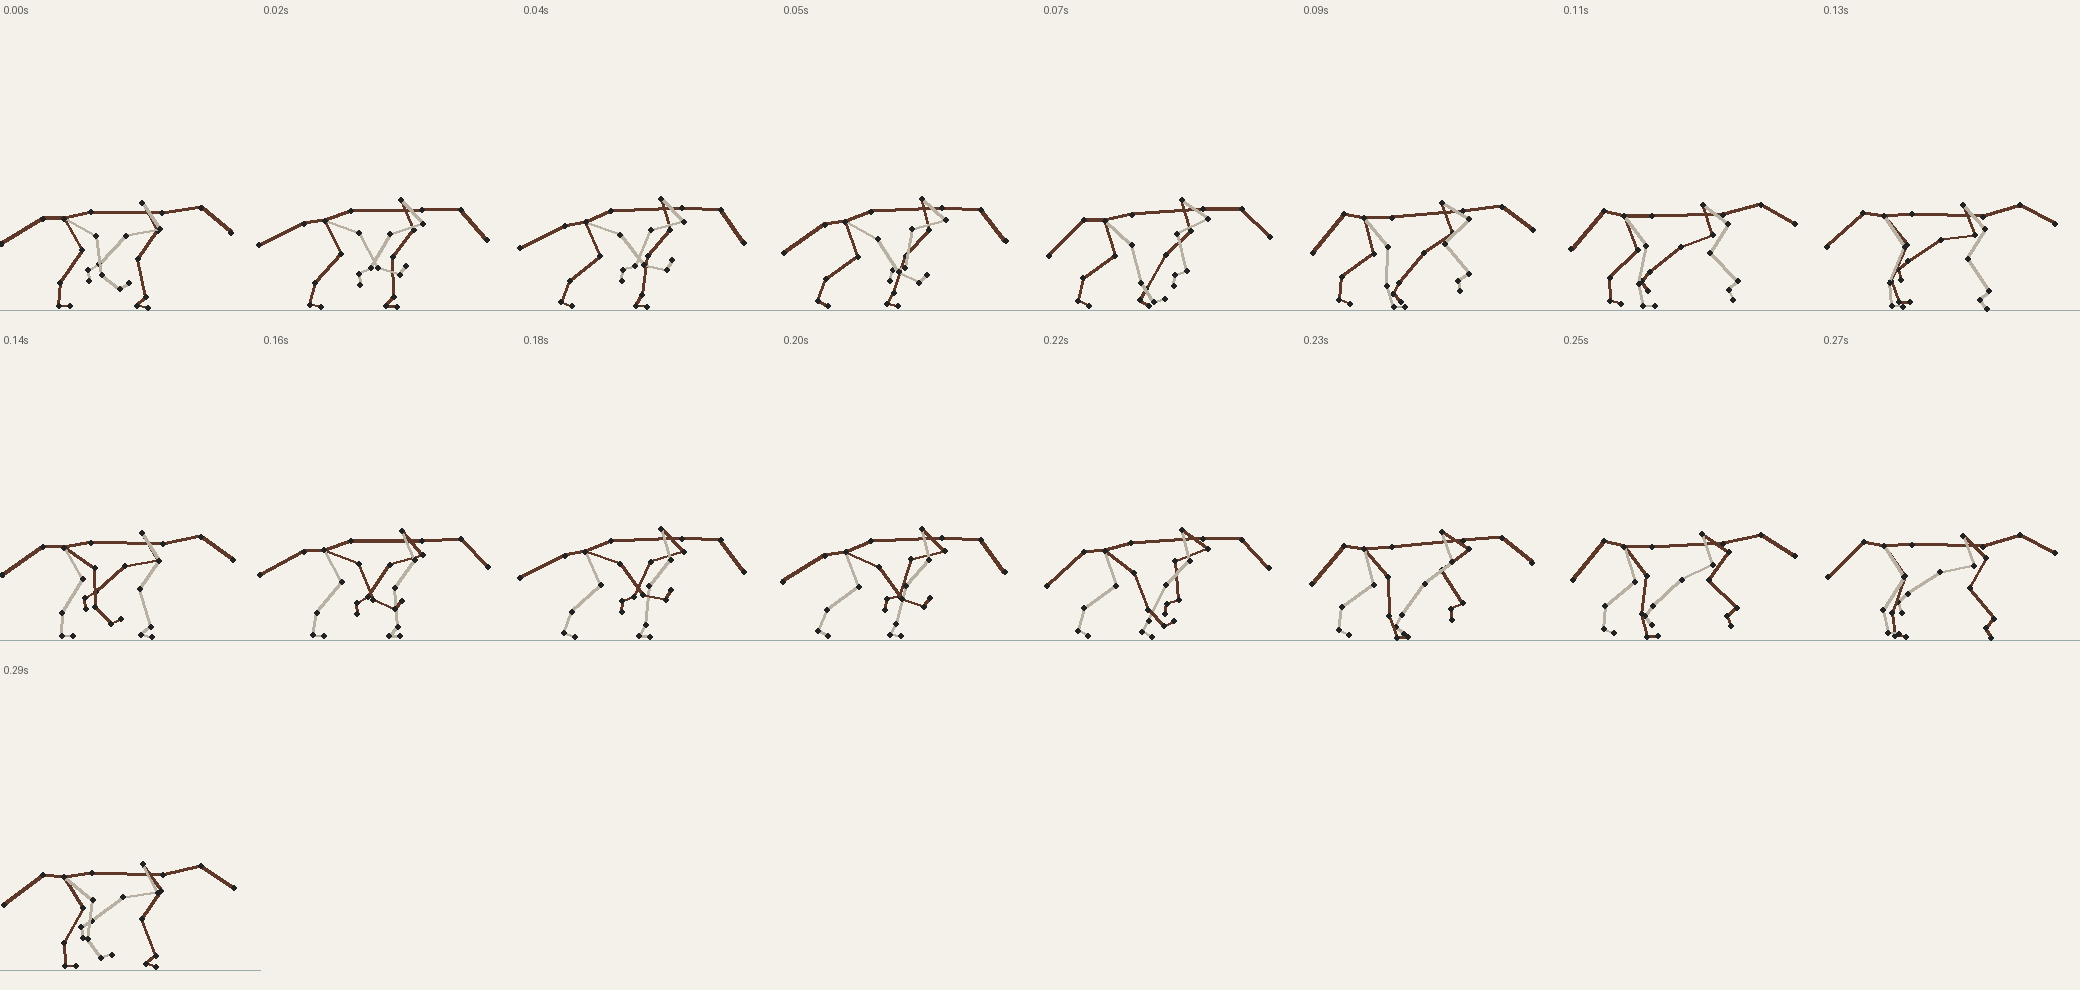
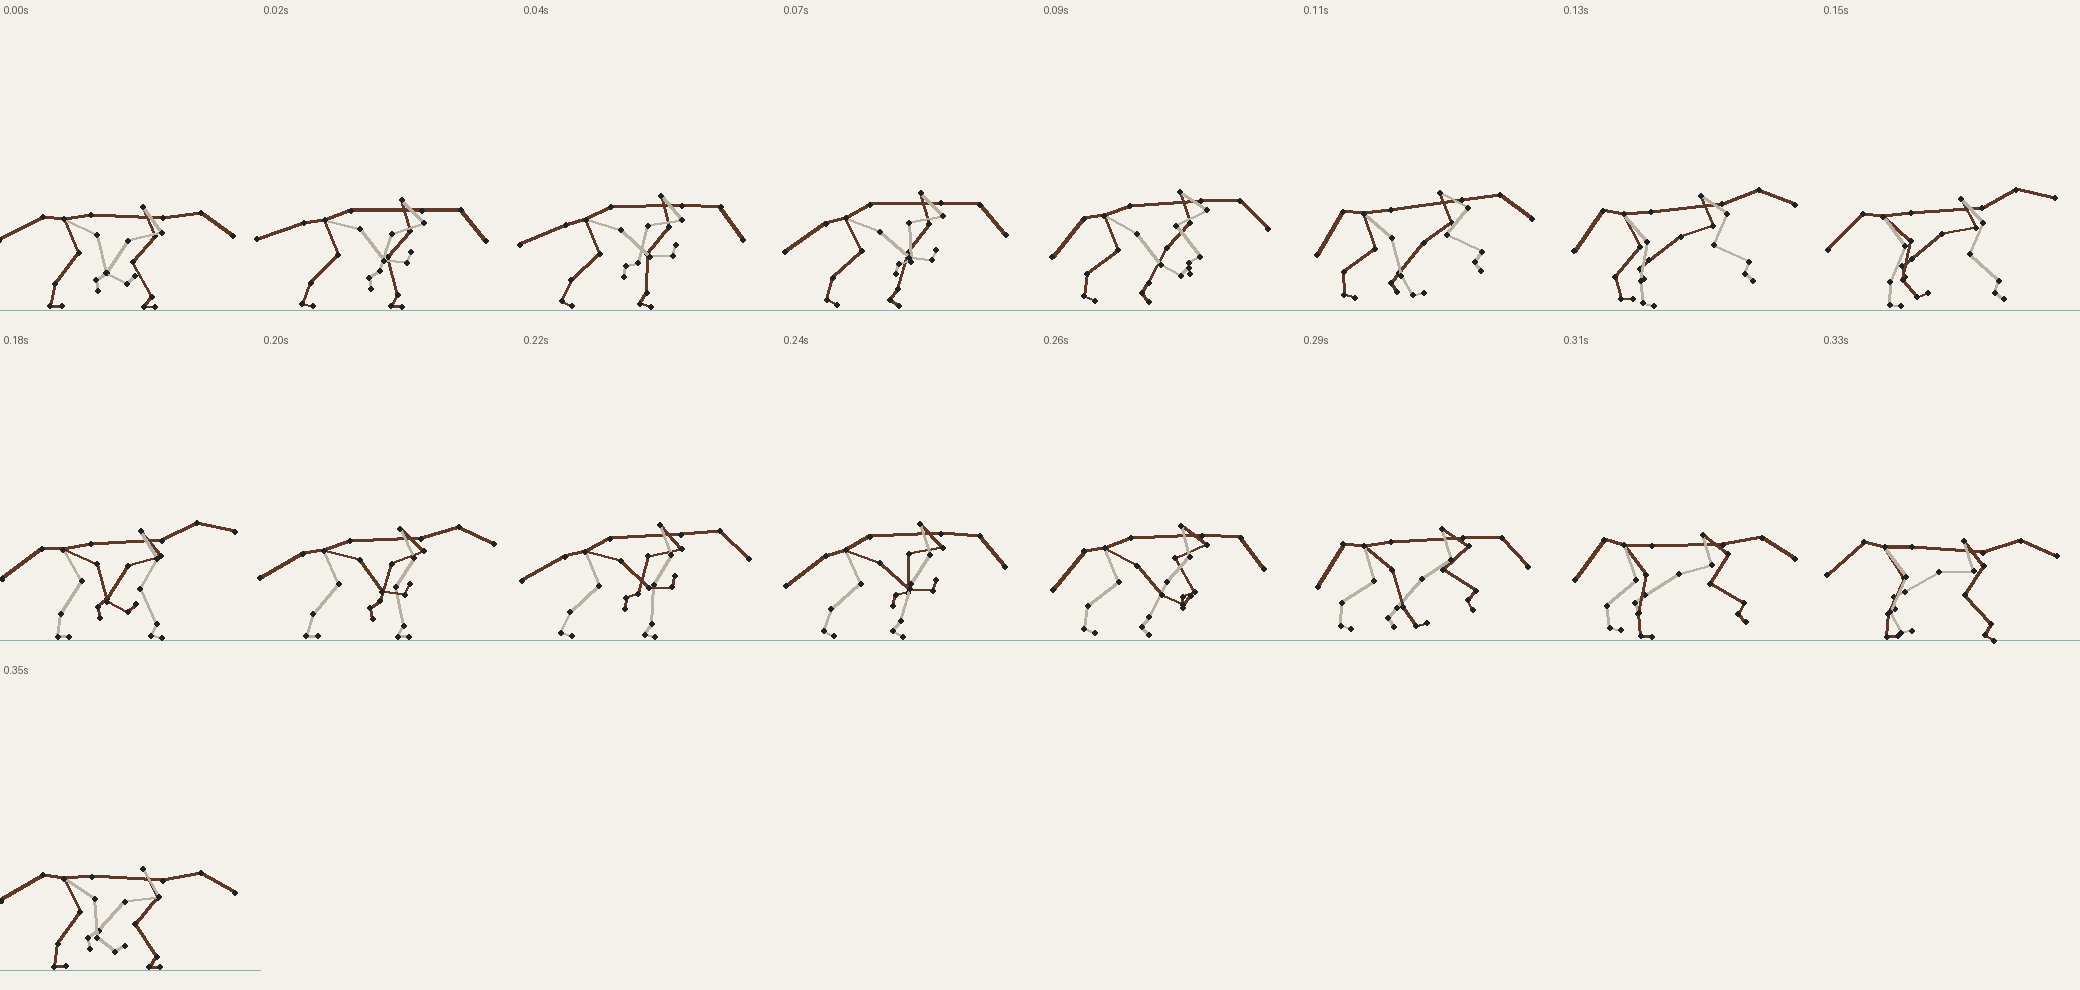
Bouncier simulated trot: asks for rise and fall, longer stride; flat one kept to compare

diff --git a/tools/sim/view.html b/tools/sim/view.html
@@ -17,7 +17,7 @@
 <p id="info"></p>
 <script>
 const cv = document.getElementById('c'), g = cv.getContext('2d');
-const CASES = { stand: 'long leap', high: 'high jump', trot: 'trot', gallop: 'gallop', gallop_quick: 'gallop, quicker steps' };
+const CASES = { stand: 'long leap', high: 'high jump', trot: 'trot', trot_flat: 'trot, flat (first one)', gallop: 'gallop', gallop_quick: 'gallop, quicker steps' };
 let clip = null, t = 0, playing = true, speed = 0.25, last = 0;
 const el = (id) => document.getElementById(id);
 for (const k in CASES) { const b = document.createElement('button'); b.textContent = CASES[k]; b.onclick = () => load(k); b.dataset.k = k; el('cases').append(b); }

diff --git a/tools/sim/gait.py b/tools/sim/gait.py
@@ -22,9 +22,10 @@ WARM = 3
 
 # v the speed asked for (m/s), T a first guess at the stride time, lag where each leg is in the stride (fl fr hl hr),
 # free whether the search may move those, axial how many times the back and neck repeat in a stride, duty the share
-# of the stride a paw may spend on the ground, Tmin the shortest stride allowed
+# of the stride a paw may spend on the ground, Tmin the shortest stride allowed, bounce how far her middle should rise and fall (m, standard deviation;
+# without it she is asked to stay level)
 CASES = dict(
-    trot=dict(v=2.4, T=0.42, lag=[0.0, 0.5, 0.5, 0.0], free=False, axial=2, duty=(0.35, 0.6)),
+    trot=dict(v=2.4, T=0.42, lag=[0.0, 0.5, 0.5, 0.0], free=False, axial=2, duty=(0.25, 0.5), Tmin=0.36, bounce=0.015),
     gallop=dict(v=5.5, T=0.36, lag=[0.5, 0.62, 0.0, 0.12], free=True, axial=1, duty=(0.15, 0.45), Tmin=0.32),
 )
 
@@ -80,7 +81,7 @@ def rollout(x, case, record=False):
     off = np.concatenate([lag, [lag[2]]])[leg]; mul = np.where(leg == 4, k['axial'], 1)
     mujoco.mj_resetData(m, d); d.qpos[:] = q0; d.qvel[0] = k['v']; mujoco.mj_forward(m, d)
     per = int(round(T / CTRL_DT)); n = per * STRIDES; sub = int(round(CTRL_DT / m.opt.timestep))
-    effort = bad = tilt = bob = slip = 0.0; marks = []; frames = []; fell = None; duty = np.zeros(4); names = ['fpaw_l', 'fpaw_r', 'hpaw_l', 'hpaw_r']
+    effort = bad = tilt = bob = slip = 0.0; marks = []; frames = []; zs = []; fell = None; duty = np.zeros(4); names = ['fpaw_l', 'fpaw_r', 'hpaw_l', 'hpaw_r']
     for i in range(n):
         ph = (i / per + off) * mul
         ramp = min(1.0, i / (0.5 * per))                                        # ease in from standing
@@ -95,7 +96,7 @@ def rollout(x, case, record=False):
         if com[2] < 0.62 * z0 or abs(d.qpos[2]) > 0.9: fell = i; break
         if i >= per * WARM:
             effort += float(np.sum((d.actuator_force / m.actuator_forcerange[:, 1]) ** 2)) * CTRL_DT
-            tilt += d.qpos[2] ** 2 * CTRL_DT; bob += (com[2] - z0) ** 2 * CTRL_DT
+            tilt += d.qpos[2] ** 2 * CTRL_DT; bob += (com[2] - z0) ** 2 * CTRL_DT; zs.append(com[2])
             for j, nm in enumerate(names): duty[j] += nm in on
         if i % per == 0: marks.append((i, d.qpos[0], np.concatenate([d.qpos[1:], 0.05 * d.qvel]).copy()))
         if record and i >= per * (STRIDES - 2) and i < per * (STRIDES - 1): frames.append((dog.points(m, d), sorted(on), float(d.qpos[2]), [float(v) for v in com]))
@@ -107,10 +108,12 @@ def rollout(x, case, record=False):
     vs = [(marks[j + 1][1] - marks[j][1]) / T for j in range(WARM, STRIDES)]
     rep = float(np.mean([np.sum((marks[j + 1][2] - marks[j][2]) ** 2) for j in range(WARM, STRIDES)]))
     duty /= per * (STRIDES - WARM)
-    J = 8 * (v - k['v']) ** 2 + 4 * float(np.var(vs)) + 3 * rep + 0.03 * effort / tt + 0.1 * bad + 30 * tilt / tt + 400 * bob / tt
+    J = 8 * (v - k['v']) ** 2 + 4 * float(np.var(vs)) + 3 * rep + 0.03 * effort / tt + 0.1 * bad + 30 * tilt / tt
+    if 'bounce' in k: J += 400 * (np.mean(zs) - z0) ** 2 + 1e4 * (np.std(zs) - k['bounce']) ** 2       # stands tall, with a spring
+    else: J += 400 * bob / tt
     J += 40 * float(np.sum(np.maximum(0, k['duty'][0] - duty) ** 2 + np.maximum(0, duty - k['duty'][1]) ** 2))       # every paw works, none drags
     J += 0.02 * float(np.sum(x[NC:NC * NJ] ** 2))
-    info = dict(J=J, v=v, T=T, lag=[round(float(a), 3) for a in lag], rep=rep, effort=effort / tt, bad=bad, tilt=tilt / tt, duty=[round(float(a), 2) for a in duty])
+    info = dict(J=J, v=v, T=T, lag=[round(float(a), 3) for a in lag], rep=rep, effort=effort / tt, bad=bad, tilt=tilt / tt, duty=[round(float(a), 2) for a in duty], bounce=float(np.std(zs)))
     return (J, info, frames) if record else J
 
 def _cost(a): return rollout(a[0], a[1])

diff --git a/docs/tech.md b/docs/tech.md
@@ -85,7 +85,7 @@ Movement posed by hand did not look like a dog. `tools/sim/dog.py` is a springer
 - Output in `tools/sim/out/`: `<case>.json` (every joint's position 100 times a second, and which paws are down), `<case>.png` (a strip), `<case>.npy` (the knots, to resume a search).
 - `tools/sim/view.html` plays a capture in slow motion: `/tools/sim/view.html` on the local server.
 - **Gaits (in progress, not in the game yet).** `tools/sim/gait.py` searches for a steady trot or gallop: `python gait.py trot` or `gallop` (about 5 minutes; a second run resumes from the saved result, `--fresh` starts over, `0` replays). Each joint's target is a repeating curve over the stride (a mean and three harmonics), and the four legs run the same curve at different points of the stride (`lag` in `CASES`: diagonal pairs together for the trot; for the gallop the search may move them). She starts standing at the asked speed and runs 7 strides; the first 3 do not count. The cost asks for: the asked speed, no fall, each stride like the last, her middle kept at standing height and level, each paw on the ground for a share of the stride within `duty`, nothing but paws touching the ground, least effort. One stride (the sixth) is recorded to `out/<case>.json` with `loop: true`.
-  - Results so far (`tools/sim/out/`, play them in `tools/sim/view.html`): `trot` 2.4 m/s, stride 0.30 s, diagonal pairs, each paw down about 35% of the stride. `gallop` 5.5 m/s, stride 0.32 s (1.75 m), a moment in the air; a hock still brushes the ground now and then (9 contacts in 4 strides). `gallop_quick` 5.5 m/s, stride 0.25 s, clean contacts, but four strides a second is quicker than a spaniel's.
+  - Results so far (`tools/sim/out/`, play them in `tools/sim/view.html`): `trot` 2.4 m/s, stride 0.36 s (86 cm), diagonal pairs, each paw down about 26% of the stride so she is in the air between steps, her middle rising and falling about 4 cm. `trot_flat` is the first trot (stride 0.30 s, paws down 35%, her middle held level): judged not jumpy enough. The bouncy one came from adding `bounce=0.015` (the cost then asks for that much rise and fall instead of none), `Tmin=0.36` and a lower `duty` range to the trot case, and running `gait.py trot 150` from the flat one. `gallop` 5.5 m/s, stride 0.32 s (1.75 m), a moment in the air; a hock still brushes the ground now and then (9 contacts in 4 strides). `gallop_quick` 5.5 m/s, stride 0.25 s, clean contacts, but four strides a second is quicker than a spaniel's.
   - How the gallop was reached: searched directly at 5.5 m/s from a hand guess it never stood up (pitched, scrambling at 3.3 m/s). What worked was going in steps from the trot: `gait.py gallop 150 --from=trot --v=3.0` (the trot's curves with the gallop's leg timing), then `gait.py gallop 120 --v=4.2`, then `gait.py gallop 120 --v=5.5`, each resuming from the one before. That gave `gallop_quick` (the stride sat at the 0.25 s lower limit). `Tmin=0.32` was then added to the gallop case and `gait.py gallop 150` run once more for the longer stride.
   - What went wrong first, and why the cost is as it is: with only speed, repetition and effort asked, the trot came out crouched with the hind paws barely touching (on the ground 11% of the stride). Hence the height term and the `duty` range.
 - Not done yet: a running take-off, the landing after touchdown and people are not simulated; the gaits are found but not played in the game yet. The game plays the two captures in a jump (see *Jump* above).

diff --git a/docs/iterations.md b/docs/iterations.md
@@ -170,3 +170,7 @@ Each iteration: what was built → what to test → feedback received → what t
 **Feedback**: running is not bad, but would benefit from the simulation. Go.
 
 **Decision**: a steady trot and a gallop searched for on the simulated skeleton (`tools/sim/gait.py`, method in `docs/tech.md`), shown in the viewer first; nothing in the game changes until they are approved. Two gallops to choose from: a longer stride (0.32 s) and a quicker one (0.25 s). **Checked by script**: speed, stride time, share of stride each paw is down, contacts other than paws, strips of one stride, the viewer loops them without errors. **Not checked**: by eye in motion; how they look on Lili's body.
+
+**Feedback**: the trot needs to be more jumpy; the regular gallop (longer stride) is the better one.
+
+**Decision**: the trot searched again asking for her middle to rise and fall (about 4 cm), a longer stride (0.36 s) and less time on the ground; the first one is kept as `trot_flat` to compare. The 0.32 s gallop is the one to use. **Checked by script**: numbers and a strip of one stride. **Not checked**: by eye in motion.
